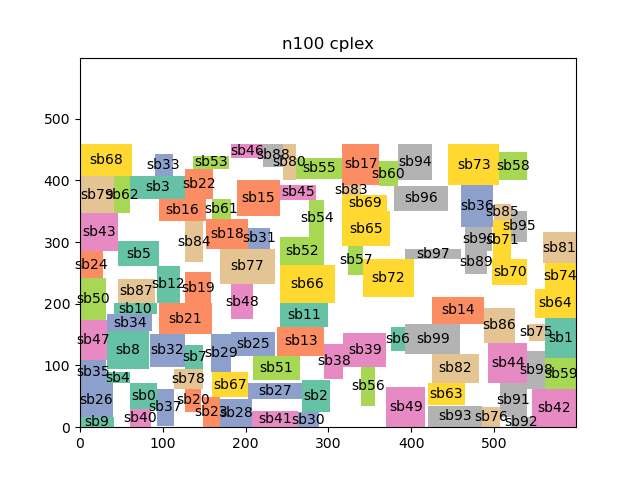
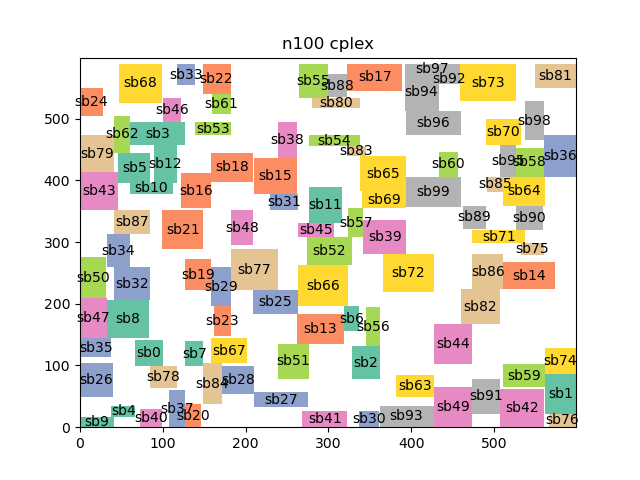
upd

diff --git a/floorplaner.py b/floorplaner.py
@@ -187,7 +187,7 @@ class FloorPlaner:
 		print('Bounding Box: '+str(self.ChipX)+','+str(self.ChipY))
 		print('cost_norm: '+str(self.getCost())+'\t cost: '+str(self.getCost(0)))
 
-	def ILP_floorplan(self, obj_type='area', instance_name='n', result_directory='./results/'):
+	def ILP_floorplan_cplex(self, obj_type='area', instance_name='n', result_directory='./results/', mode='sol-limit'):
 		WIDTH_REC = int((self.BlockArea / 0.5) ** 0.5)
 		HEIGHT_REC = WIDTH_REC
 
@@ -256,9 +256,16 @@ class FloorPlaner:
 		# -----------------------------------------------------------------------------
 
 		# Solve model
-		TIME_LIMIT = 600
+		if mode == 'sol-limit':
+			N_SOL_LIMIT = 1
+			mdl.parameters.mip.limits.solutions = N_SOL_LIMIT
+		elif mode == 'time-limit':
+			TIME_LIMIT = 7200
+			print('sovler time limit: ', TIME_LIMIT)
+			mdl.parameters.timelimit = TIME_LIMIT
+		# TIME_LIMIT = 3600
 		# N_SOL_LIMIT = 1
-		mdl.parameters.timelimit = TIME_LIMIT
+		# mdl.parameters.timelimit = TIME_LIMIT
 		# mdl.parameters.mip.limits.solutions = N_SOL_LIMIT
 
 		print('Cplex started...')
@@ -315,13 +322,13 @@ class FloorPlaner:
 			# ax.xaxis.set_major_locator(ticker.MultipleLocator(0.5))
 			# ax.yaxis.set_major_locator(ticker.MultipleLocator(0.5))
 			plt.margins(0)
-			plt.title( instance_name + ' cplex')
-			fig.savefig(result_directory + instance_name + "_cplex.png")
+			plt.title( instance_name + ' cplex ' + str(mdl.solve_details.time))
+			fig.savefig(result_directory + instance_name + '_cplex_' + mode + '.png')
 			plt.show()
 
 			print("Estimated width length: ", self.totalwirelength())
 
-	def ILP_floorplan_scip(self, obj_type='area', instance_name='n', result_directory='./results/'):
+	def ILP_floorplan_scip(self, obj_type='area', instance_name='n', result_directory='./results/', mode = 'sol-limit'):
 		WIDTH_REC = int((self.BlockArea / 0.5) ** 0.5)
 		HEIGHT_REC = WIDTH_REC
 
@@ -391,9 +398,17 @@ class FloorPlaner:
 
 		# Solve model
 
-		N_SOL_LIMIT = 1
+		if mode == 'sol-limit':
+			N_SOL_LIMIT = 1
+			model.setParam('limits/solutions', N_SOL_LIMIT)
+		elif mode == 'time-limit':
+			TIME_LIMIT = 7200
+			print('sovler time limit: ', TIME_LIMIT)
+			model.setParam('limits/time', TIME_LIMIT)
+
+		# N_SOL_LIMIT = 1
 		# TIME_LIMIT = 3600
-		model.setParam('limits/solutions', N_SOL_LIMIT)
+		# model.setParam('limits/solutions', N_SOL_LIMIT)
 		# model.setParam('limits/time', TIME_LIMIT)
 
 		print("SCIP started...")
@@ -450,23 +465,8 @@ class FloorPlaner:
 			# ax.xaxis.set_major_locator(ticker.MultipleLocator(0.5))
 			# ax.yaxis.set_major_locator(ticker.MultipleLocator(0.5))
 			plt.margins(0)
-			plt.title(instance_name + ' scip')
-			fig.savefig(result_directory + instance_name + "_scip.png")
+			plt.title(instance_name + ' scip ' + str(model.getSolvingTime()))
+			fig.savefig(result_directory + instance_name + '_scip_' + mode + '.png')
 			plt.show()
 
 			print("Estimated width length: ", self.totalwirelength())
-
-if __name__ == '__main__':
-	result_directory = './results/HARD/'
-	pathlib.Path(result_directory).mkdir(parents=True, exist_ok=True)
-	instance_name = 'n200'
-	print('case: hard ' + instance_name)
-	fp = FloorPlaner()
-	fp.readBlocks('./GSRCbench/HARD/' + instance_name + '.blocks')
-	fp.readPins('./GSRCbench/HARD/' + instance_name + '.pl')
-	fp.readNets('.//GSRCbench/HARD/' + instance_name + '.nets')
-	fp.ILP_floorplan_scip(instance_name=instance_name, result_directory=result_directory)
-
-	# fp.alpha = 0.5
-	# fp.init()
-	# fp.SA()

diff --git a/test_cplex.py b/test_cplex.py
@@ -1,0 +1,31 @@
+import math
+import re
+import random
+import time
+from netlist import Terminal, Block, Net
+from Tree import Tree
+from pyscipopt import Model as MD
+from docplex.mp.model import Model
+import pathlib
+from floorplaner import FloorPlaner
+
+random.seed(0)
+
+if __name__ == '__main__':
+	modes = ['sol-limit', 'time-limit']
+	mode = modes[1]
+	print('mode : ', mode)
+
+	result_directory = './results/HARD/'
+	pathlib.Path(result_directory).mkdir(parents=True, exist_ok=True)
+	instance_name = 'n100'
+	print('case: hard ' + instance_name)
+	fp = FloorPlaner()
+	fp.readBlocks('./GSRCbench/HARD/' + instance_name + '.blocks')
+	fp.readPins('./GSRCbench/HARD/' + instance_name + '.pl')
+	fp.readNets('.//GSRCbench/HARD/' + instance_name + '.nets')
+	fp.ILP_floorplan_cplex(instance_name=instance_name, result_directory=result_directory, mode=mode)
+
+	# fp.alpha = 0.5
+	# fp.init()
+	# fp.SA()

diff --git a/test_scip.py b/test_scip.py
@@ -1,0 +1,29 @@
+import math
+import re
+import random
+import time
+from netlist import Terminal, Block, Net
+from Tree import Tree
+from pyscipopt import Model as MD
+from docplex.mp.model import Model
+import pathlib
+from floorplaner import FloorPlaner
+
+random.seed(0)
+
+
+
+if __name__ == '__main__':
+	result_directory = './results/HARD/'
+	pathlib.Path(result_directory).mkdir(parents=True, exist_ok=True)
+	instance_name = 'n200'
+	print('case: hard ' + instance_name)
+	fp = FloorPlaner()
+	fp.readBlocks('./GSRCbench/HARD/' + instance_name + '.blocks')
+	fp.readPins('./GSRCbench/HARD/' + instance_name + '.pl')
+	fp.readNets('.//GSRCbench/HARD/' + instance_name + '.nets')
+	fp.ILP_floorplan_scip(instance_name=instance_name, result_directory=result_directory)
+
+	# fp.alpha = 0.5
+	# fp.init()
+	# fp.SA()
